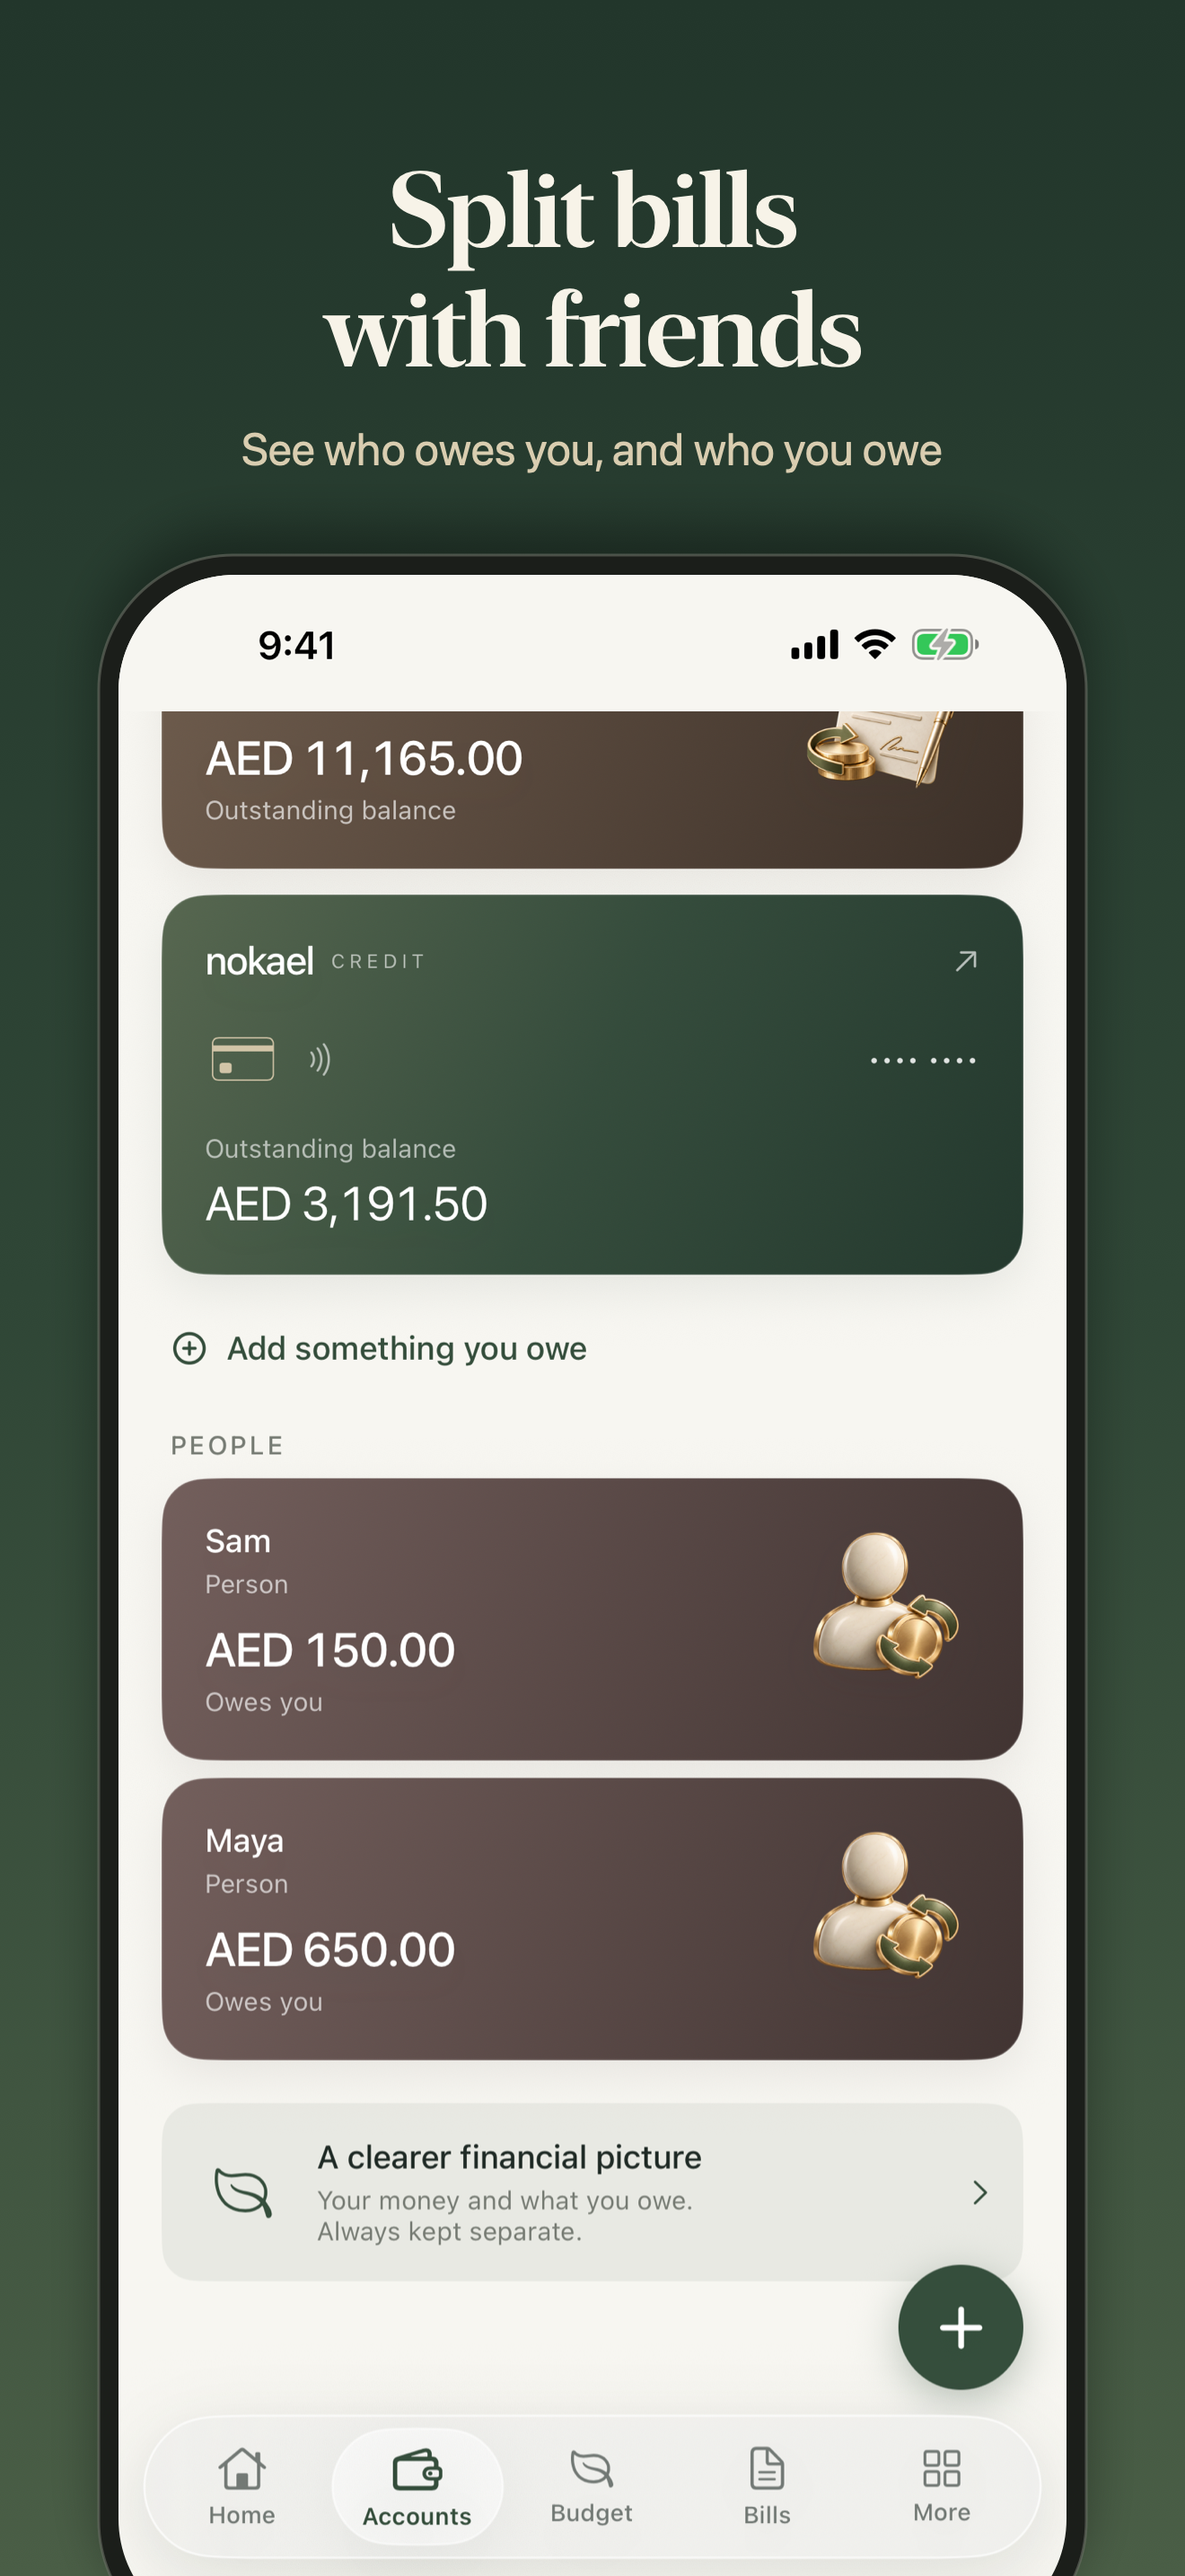
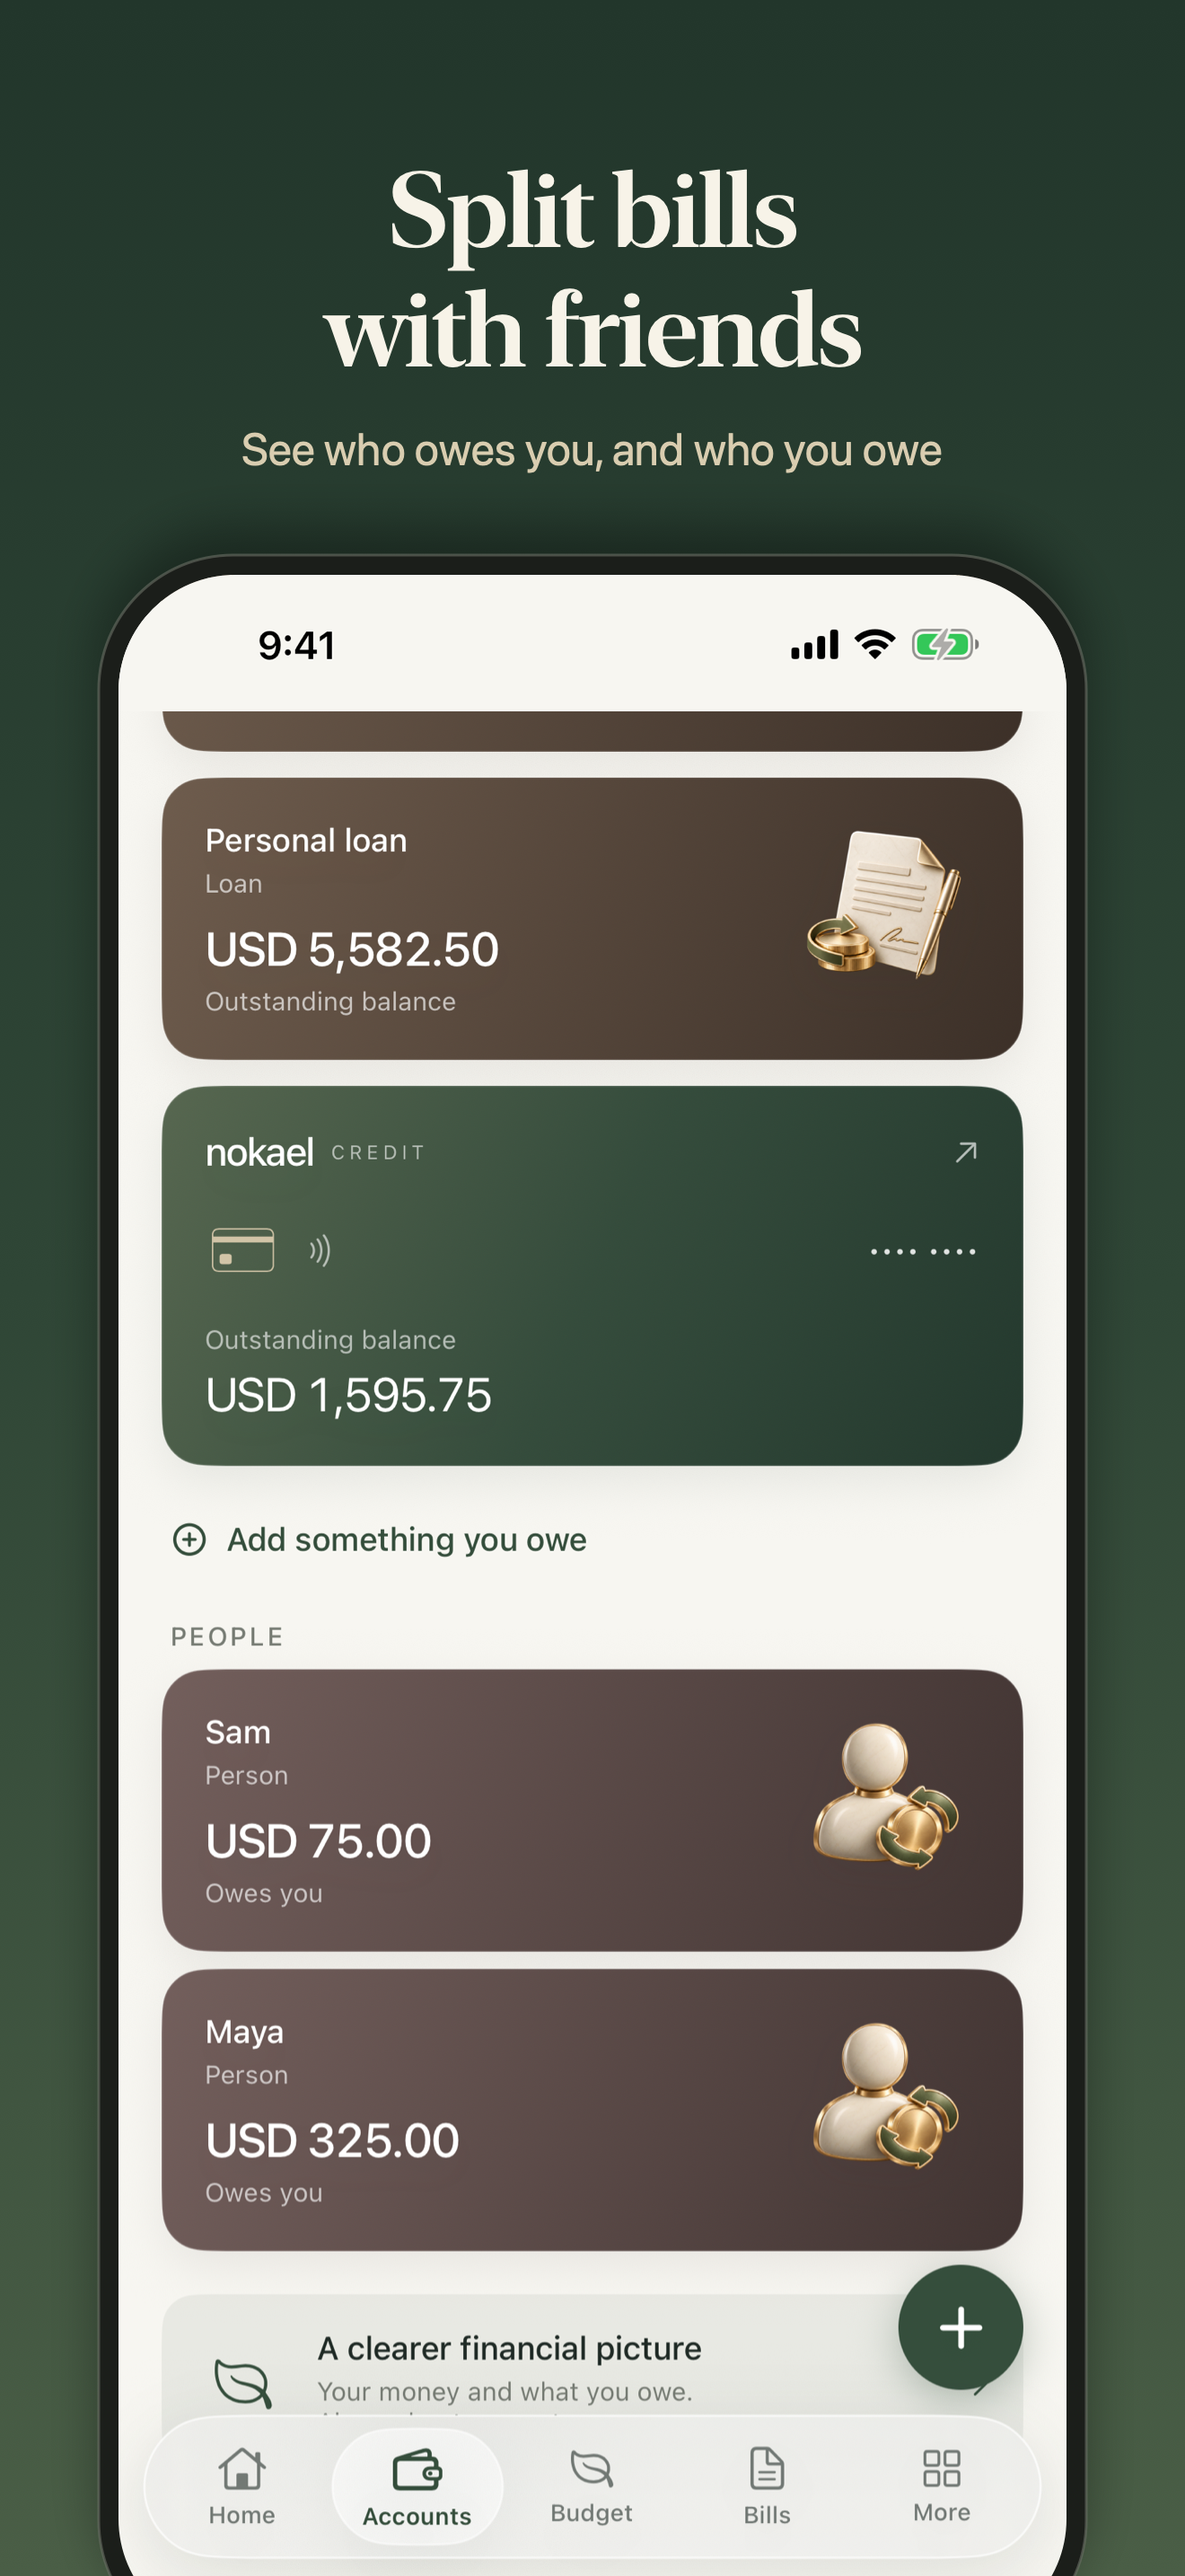
App Store screenshots in US dollars for a global audience
- Demo data takes -demoCurrency (debug only); AED stays the default so tests are unchanged
- All 8 screenshots retaken in USD with US dates, per Apple's asset best practices

Changed region(s): [[0.1242, 0.2483, 0.8697, 0.931]]

diff --git a/PersonalFinanceApp/App/DemoData.swift b/PersonalFinanceApp/App/DemoData.swift
@@ -16,7 +16,11 @@ enum DemoData {
         let cal = store.calendar
         let today = store.now()
         func day(_ offset: Int) -> Date { cal.date(byAdding: .day, value: offset, to: cal.startOfDay(for: today))!.addingTimeInterval(12 * 3600) }
-        func aed(_ v: Decimal) -> Money { Money(v, currency: "AED") }
+        // -demoCurrency USD (for App Store screenshots) halves the amounts so they look usual there; AED by default for the tests
+        let currency = UserDefaults.standard.string(forKey: "demoCurrency") ?? "AED"
+        let scale: Decimal = currency == "AED" ? 1 : 0.5
+        try? store.updateSettings { $0.currency = currency }
+        func aed(_ v: Decimal) -> Money { Money(v * scale, currency: currency) }
 
         try? store.addStarterCategories()
         let s = store.snapshot
